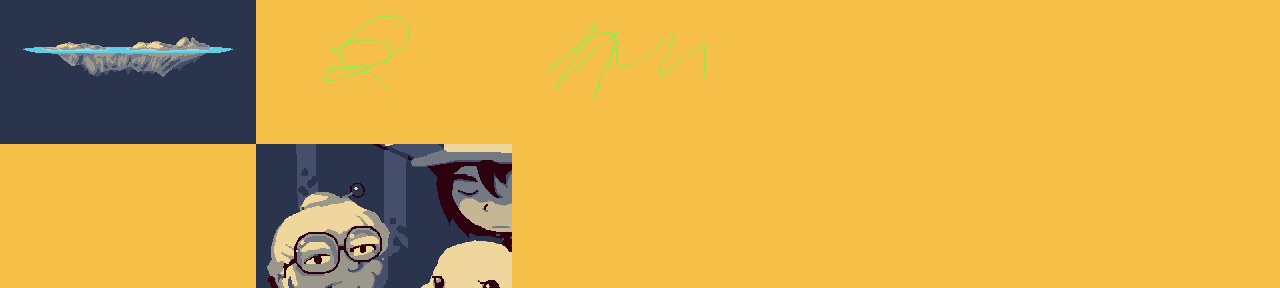
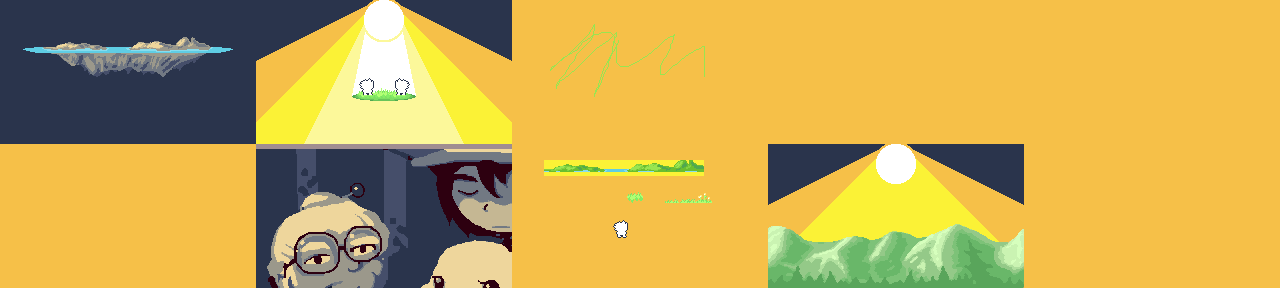
scenes (WIP)

diff --git a/Leore/Main/StoryScene.cs b/Leore/Main/StoryScene.cs
@@ -1,4 +1,5 @@
 using Leore.Objects.Effects.Emitters;
+using Leore.Resources;
 using Microsoft.Xna.Framework;
 using Microsoft.Xna.Framework.Graphics;
 using SPG.Draw;
@@ -37,21 +38,33 @@ namespace Leore.Main
         {
             position = new Vector2(camera.ViewX, camera.ViewY);
             camera.SetTarget(this);
-
-            //texts.Add("Once upon a time, there was a world called \n~Leore~.");
-            //texts.Add("In the beginning, ~Leore~ was a dark and cold place, drifting through the void.");
-            //texts.Add("Then, the ~sun, source of all energy~, came to be and created life.\n" +
-            //    "Every creature is born from the sun, holding part of it's energy within.");
-            //texts.Add("Nonetheless, the world was an unforgiving place. As the sun gave more and more of it's source, it became colder and weaker, until eventually, the void would consume the world once again.");
-            texts.Add("In time, some creatures learned to harness this energy.|They called it ~magic~ and developed outstanding powers." +
-                "|There were those, who wanted to make these powerse accessible for everyone." +
-                "\nThe most powerful spell was cast and it created the most remarkable event in history: ~The proclamation of magic~.");
+            
+            // 0:
+            texts.Add("In the beginning, ~Leore~ was a dark and cold place, drifting through the void.");
+            // 1:
+            texts.Add("Then, the [f6c048]~sun, source of all energy~, came to be and created life.|" +
+                "Every living being is born as a child of the sun, holding part of it's energy within." +
+                "|And so, in time, civilizations formed and thrived.");
+            // 2:
+            texts.Add("Eons passed and life was flourishing on ~Leore~." +
+                "|But eventually, it's peak was reached and the uninevitable started:" +
+                "\nThe sun became weaker, drifting slowly away and the world would eventually face a cold dark death.");
+            // 3:
+            texts.Add("There were the protectors of the world, called ~Ancients~, who defied the apocalypse." +
+                "|They found a solution that should prevent the inevitable destiny of ~Leore~.");
+            // 4:
+            texts.Add("The ~Ancients~ created ~towers~ placed across the world that would form a powerful magic barrier, " +
+                "holding together the fabric of the world and maintaining balance.");
+            // 5:
+            texts.Add("But the [973bba]~Void~ has started to breach the barrier, corrupting the towers and letting darkness enter the world.");
+            
+            //texts.Add("In time, some creatures learned to harness this energy.|They called it ~magic~ and developed outstanding powers." +
+            //    "|There were those, who wanted to make these powerse accessible for everyone." +
+            //    "\nThe most powerful spell was cast and it created the most remarkable event in history: ~The proclamation of magic~.");
 
             //texts.Add("Civilizations flourished and life was at the peak of prosperity." +
             //    "|But this came with an enormous price...");
 
-            texts.Add("There were the protectors of the world, called ~Ancients~, who defied the apocalypse and created a solution that should prevent the inevitable destiny of ~Leore~.");
-            texts.Add("The ~Ancients~ created ~six towers~ placed across the world that would form a powerful magic barrier, holding together the fabric of the world.");
             texts.Add("asdf");
             texts.Add("asdf");
             texts.Add("asdf");

diff --git a/SPG/Draw/Font.cs b/SPG/Draw/Font.cs
@@ -202,6 +202,8 @@ namespace SPG.Draw
                 bool cont = false;
 
                 // necessary pre-calc
+
+                // TODO: use the getWidth method above.. duplicate code!
                 
                 for (var i = 0; i < txt.Length; i++)
                 {
